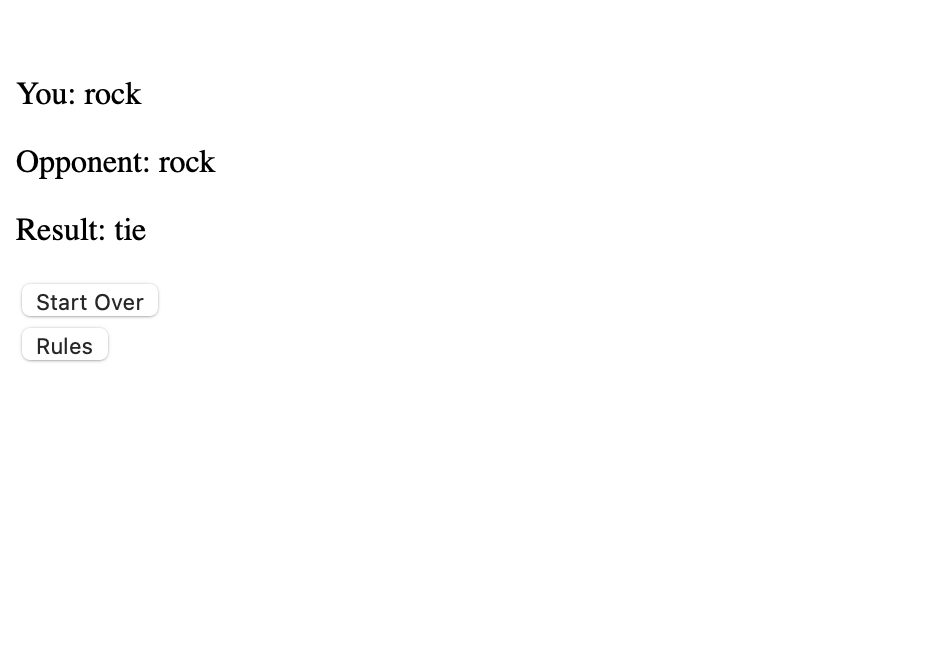
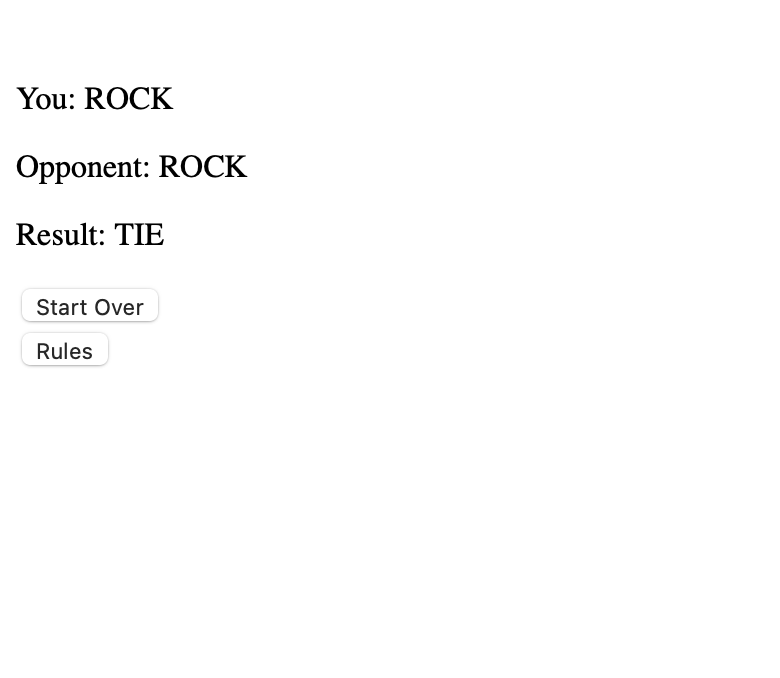
tried to fix

diff --git a/public/scripts.js b/public/scripts.js
@@ -55,29 +55,72 @@ function showResults() {
 }
 
 async function playGame() {
-
+    let check = document.getElementById('opponent');
     let game = $('input[type=radio][name=game]:checked').val();
-    let shot = $('input[type=radio][name=shot]:checked').val();
-    let baseurl = window.location.href + 'app/'
-    console.log(baseurl)
-    let url = baseurl + game + '/play/' + shot
-    console.log(url)
+    let shot;
+    let url;
+    let baseurl;
 
-    let response = await fetch(url)
-    let result = await response.json()
-    console.log(result)
-    
-    $("#userinput").hide();
-    resultVisible = true;
-    showResults();
+    if (check.checked == true && game == "rps") {
+        shot = $('input[type=radio][name=shot]:checked').val();
+        baseurl = window.location.href + 'app/'
+        console.log(baseurl)
+        url = baseurl + game + '/play/' + shot
+        console.log(url)
+        let response = await fetch(url)
+        let result = await response.json()
+        console.log(result)
+        
+        $("#userinput").hide();
+        resultVisible = true;
+        showResults();
 
-    let you = document.getElementById("you");
-    let opponent = document.getElementById("game_opponent");
-    let gResult = document.getElementById("game_result");
+        let you = document.getElementById("you");
+        let opponent = document.getElementById("game_opponent");
+        let gResult = document.getElementById("game_result");
+        
+        you.innerHTML = "You: " + result.player.toUpperCase();
+        opponent.innerHTML = "Opponent: " + result.opponent.toUpperCase();
+        gResult.innerHTML = "Result: " + result.result.toUpperCase();
+    } else if (check.checked == true && game == "rpsls") {
+        shot = $('input[type=radio][name=shot]:checked').val();
+        baseurl = window.location.href + 'app/'
+        console.log(baseurl)
+        url = baseurl + game + '/play/' + shot
+        console.log(url)
+        let response = await fetch(url)
+        let result = await response.json()
+        console.log(result)
+        
+        $("#userinput").hide();
+        resultVisible = true;
+        showResults();
+
+        let you = document.getElementById("you");
+        let opponent = document.getElementById("game_opponent");
+        let gResult = document.getElementById("game_result");
+        
+        you.innerHTML = "You: " + result.player.toUpperCase();
+        opponent.innerHTML = "Opponent: " + result.opponent.toUpperCase();
+        gResult.innerHTML = "Result: " + result.result.toUpperCase();
+    } else {
+        baseurl = window.location.href + 'app/'
+        // console.log(baseurl)
+        url = baseurl + game
+        console.log(url)
+        let response = await fetch(url)
+        let result = await response.json()
+        console.log(result)
+        
+        $("#userinput").hide();
+        resultVisible = true;
+        showResults();
+
+        let you = document.getElementById("you");
+        
+        you.innerHTML = result.player.toUpperCase();
+    }
     
-    you.innerHTML = "You: " + result.player;
-    opponent.innerHTML = "Opponent: " + result.opponent;
-    gResult.innerHTML = "Result: " + result.result;
 }
 
 function showRules() {

diff --git a/server.js b/server.js
@@ -73,10 +73,6 @@ app.use(morgan(':remote-addr - :remote-user [:date[iso]] ":method :url HTTP/:htt
 const staticpath = args.stat || args.s || process.env.STATICPATH || path.join(__dirname, 'public')
 app.use('/', express.static(staticpath))
 
-// Middleware (JSON URLEncoded)
-app.use(express.json());
-app.use(express.urlencoded({ extended: true }));
-
 // Check endpoint at /app/ that returns 200 OK
 app.get('/app/', (req, res) => {
   res.status(200).send('200 OK');
@@ -114,15 +110,15 @@ app.post('/app/rpsls/play/', (req, res) => {
 
 /* /app/rpsls/play/(rock|paper|scissors)/ returns {"player":"(rock|paper|
 scissors)","opponent":"(rock|paper|scissors)","result":"(win|lose|tie)"} */
-app.get('/app/rps/play/:shot', (req, res) =>{
-  res.status(200).send(rps(req.params.shot));
+app.get('/app/rps/play/:arg', (req, res) => {
+  res.status(200).send(rps(req.params.arg));
 })
 
 /* /app/rpsls/play/(rock|paper|scissors|lizard|spock)/ 
 returns {"player":"(rock|paper|scissors|lizard|spock)","opponent"
 :"(rock|paper|scissors|lizard|spock)","result":"(win|lose|tie)"}. */
-app.get('/app/rpsls/play/:shot', (req, res) => {
-  res.status(200).send(rpsls(req.params.shot));
+app.get('/app/rpsls/play/:arg', (req, res) => {
+  res.status(200).send(rpsls(req.params.arg));
 })
 
 // Undefined endpoints
